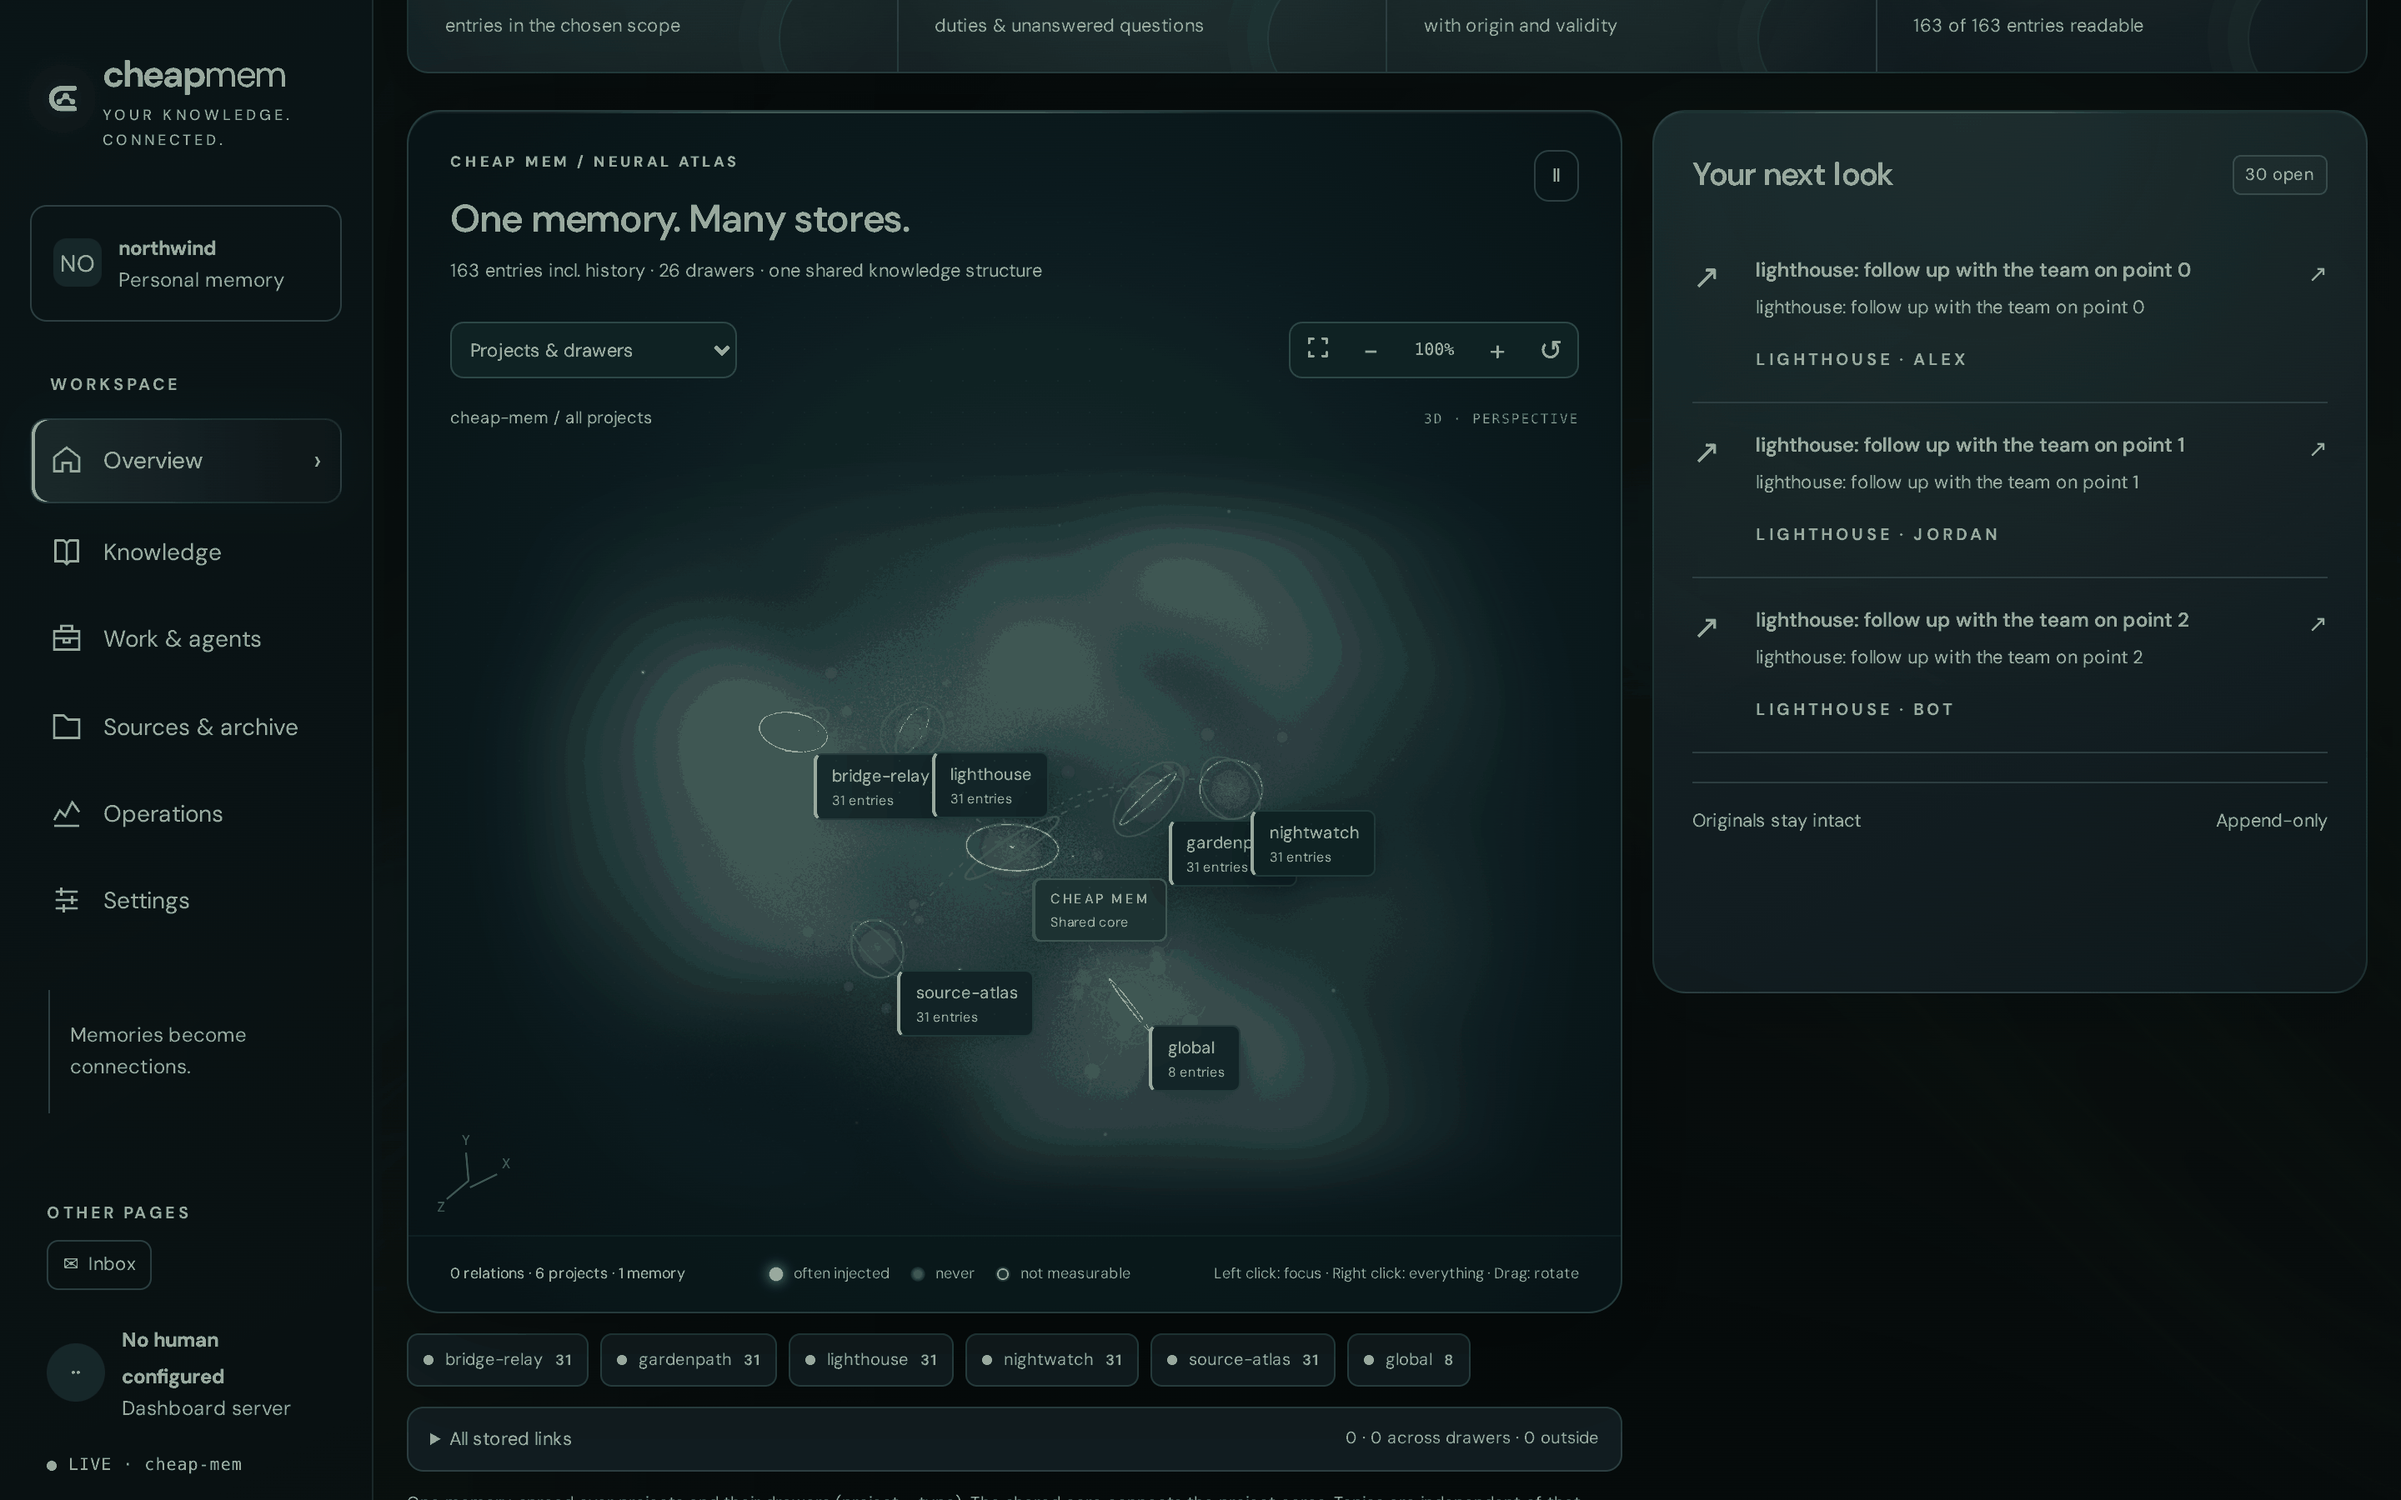
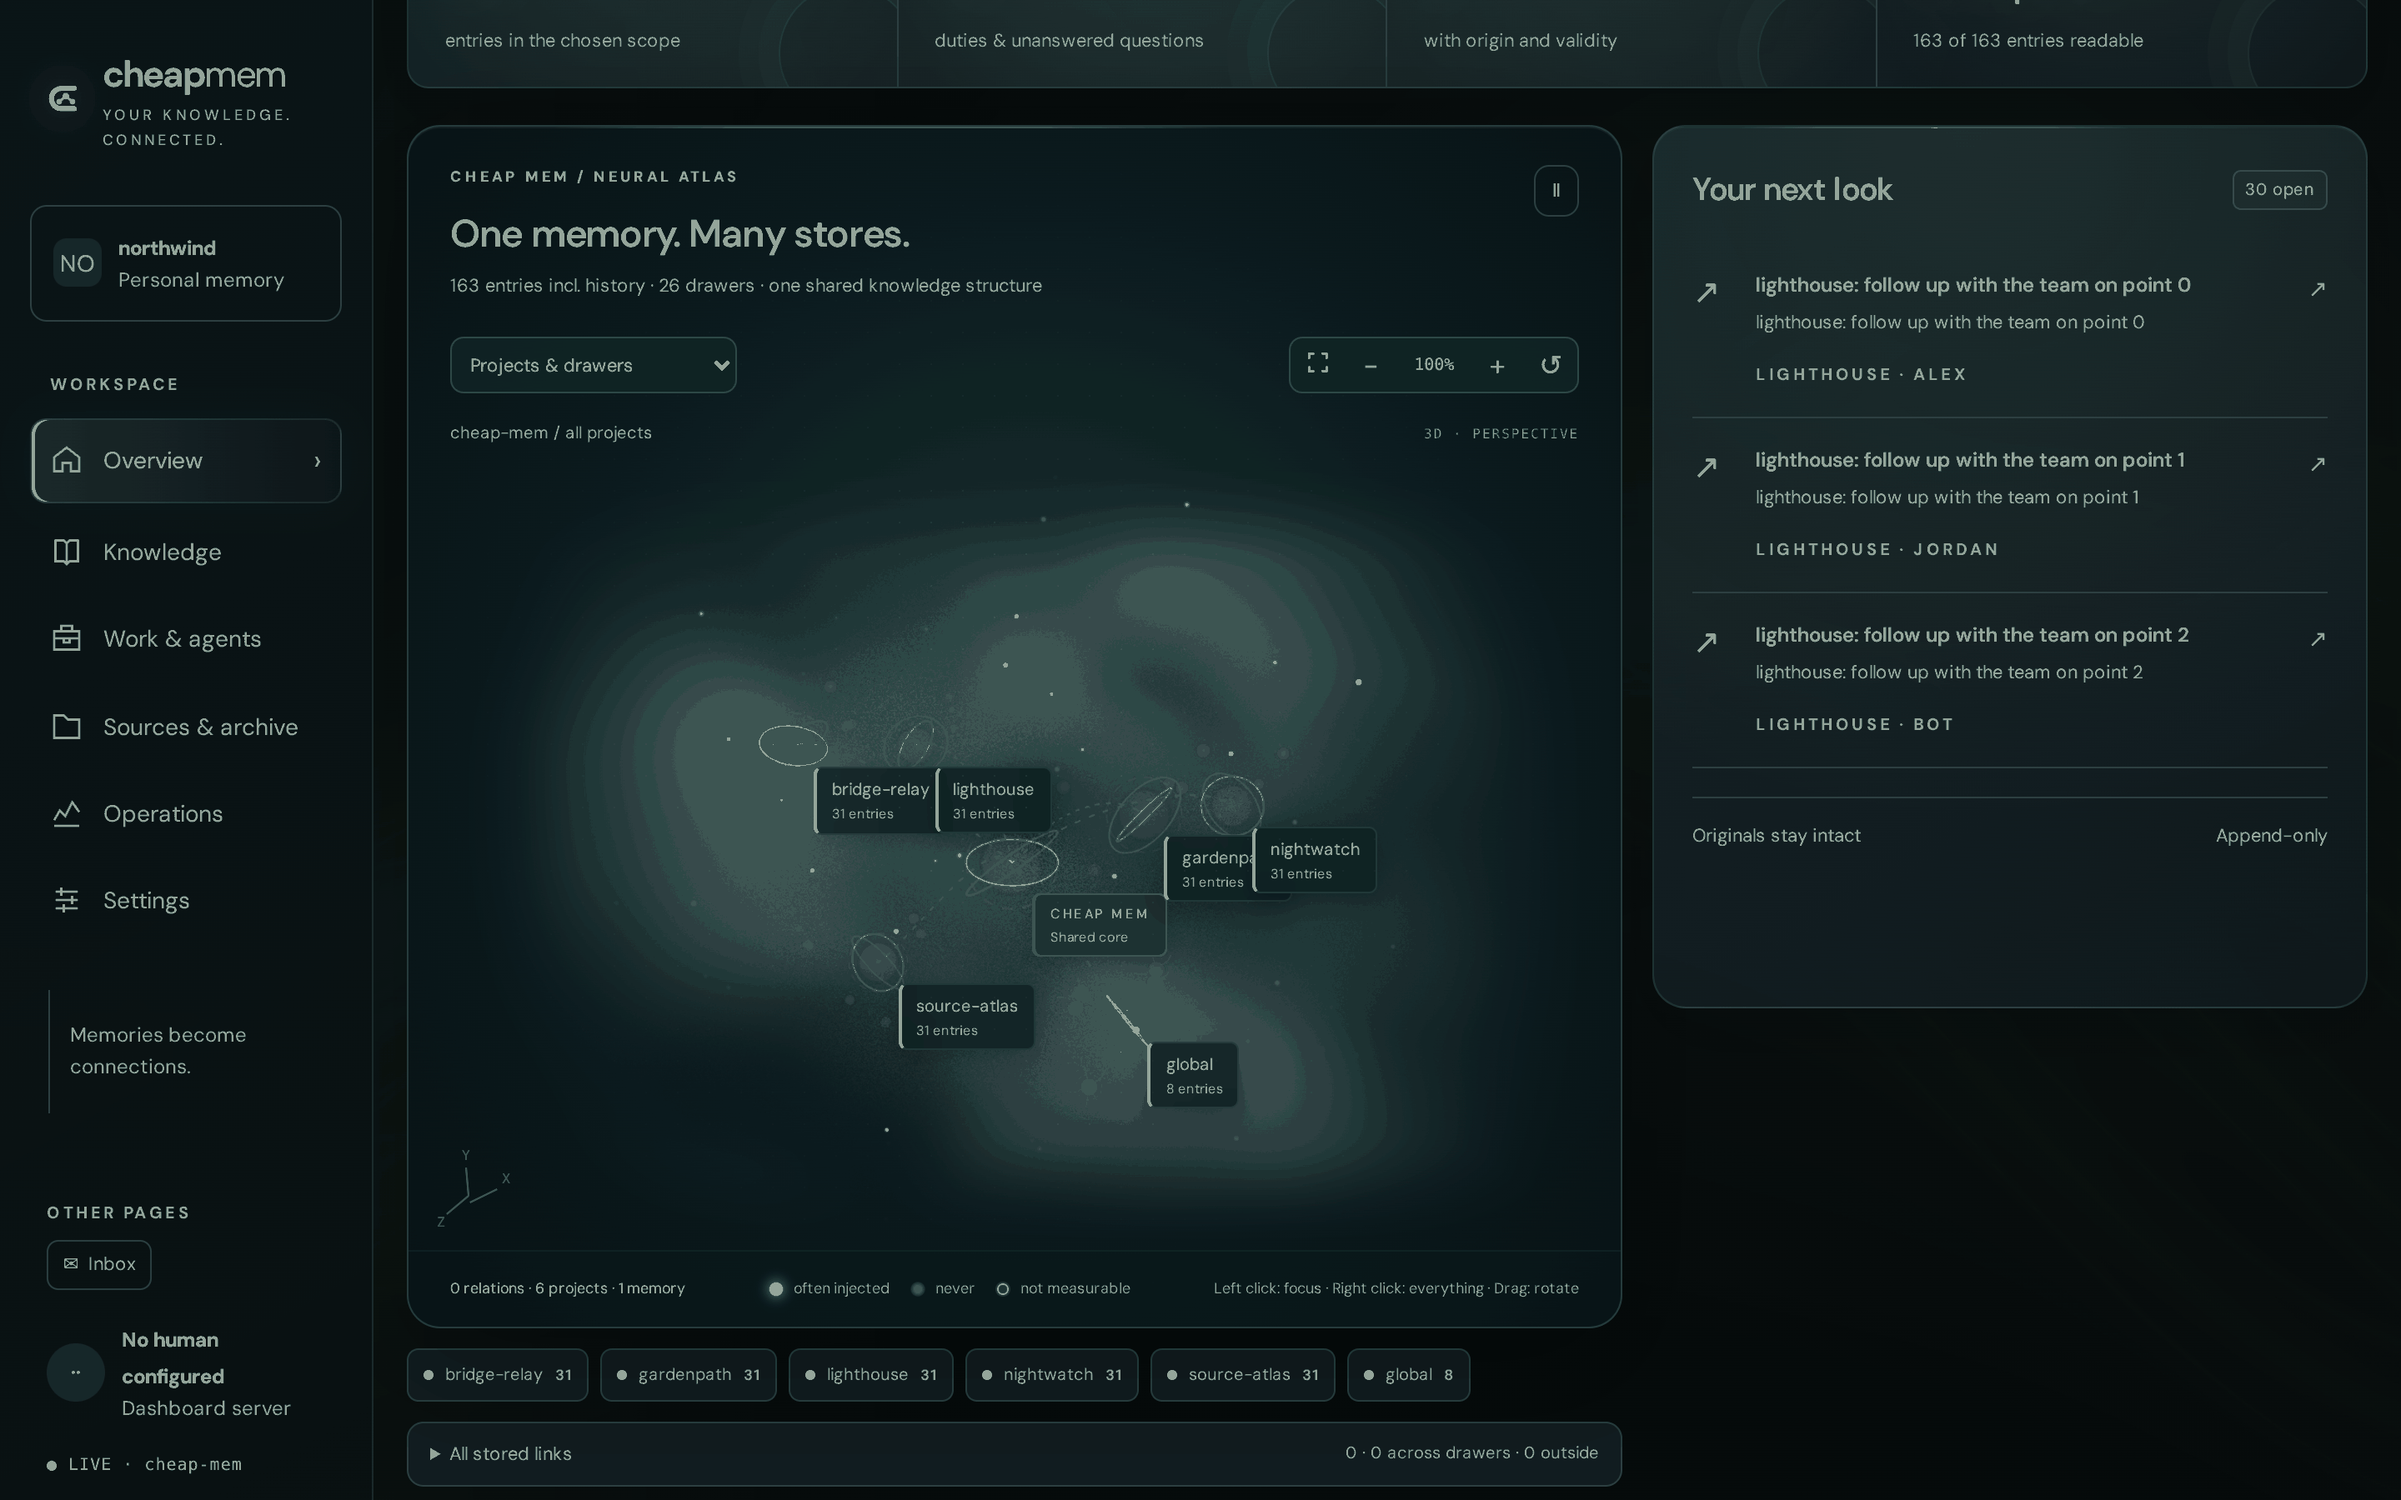
docs-images: re-shoot screenshots for the fog hull + login (parity: lm)
The dashboard look changed (fog hull instead of sphere/brain, sparse
glitter, dimmer cores, login page, tempo deferred loading) -- the
README images still showed the old state.

- bench/docs-images.mjs: page readiness now waits for
  `typeof sections === 'object' && !#screen .loading` instead of
  `typeof D` (same reasoning as test/sphere-visible.test.mjs:
  'networkidle' never settles since tempo). Knowledge-space shot gets
  2.5s instead of 1.6s for the fog/glitter to visibly build up. New
  08-login shot: its own server on a fresh temp root with
  CHEAP_MEM_SERVE_LOGIN on (the default); the other seven shots now
  explicitly force CHEAP_MEM_SERVE_LOGIN=off (the script never set it
  before -- would have been blind to the sign-in page since the login
  build landed).
- docs/images/: all eight images re-shot on the same synthetic sample
  store (never a real user's memory; store stays empty in the repo
  itself, as before).
- README.md: knowledge-space caption now mentions the fog hull/glitter;
  new paragraph + image for the sign-in page under "What it looks
  like".

Evidence: test/docs-images-guard.test.mjs (6/6),
test/sphere-visible.test.mjs (2/2, 31 screens driven, 0 hits for
pattern/demo/template/mockup/brain), test/readme-numbers-writer.test.mjs
+ test/readme-zahlen.test.mjs (24/24).

Parity: lm=yes

Claude-Session: https://claude.ai/code/session_019ZspxRDXurxeakEBKdqbpW

diff --git a/README.md b/README.md
@@ -96,7 +96,18 @@ on the right lists the next open duties and questions.*
 ![The Knowledge space tab: the same 3D network shown larger, with a group strip below the canvas and a breadcrumb above it.](docs/images/02-knowledge-space.webp)
 
 *`Knowledge -> Knowledge space`: the same network, full size, with the
-four grouping modes (drawers, topics, relations, entry type).*
+four grouping modes (drawers, topics, relations, entry type). A thin fog
+hull with a scattering of glitter surrounds the nodes -- pure
+orientation, no data of its own; it parts to the sides as you zoom in.*
+
+`mem serve` sits behind a password by default (`src/login.mjs`) -- a
+black sign-in page, one field, before any content renders:
+
+![The cheap-mem sign-in page in front of the dashboard: a black background and a password field.](docs/images/08-login.png)
+
+*Shown here in its setup state (no password set yet) -- after the first
+password is set, the same route shows only the password field. Turn it
+off with `CHEAP_MEM_SERVE_LOGIN=off` (tests, local use only).*
 
 ![Operations -> Diagnosis in the dashboard: mem-doctor findings, each with its own state instead of a silent zero.](docs/images/04-operations-health.png)
 
